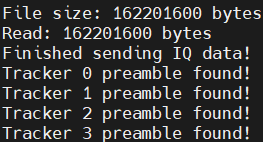
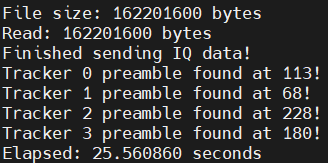
Updated software for elapsed time

diff --git a/software/main.c b/software/main.c
@@ -10,6 +10,7 @@
 #include "xscugic.h"
 #include "xgpiops.h"
 #include "xgpio.h"
+#include "xtime_l.h"
 
 #define NAV_VALID_IRQ_ID 			(121U)
 
@@ -54,6 +55,9 @@ void nav_valid_handler(void *CallbackRef) {
 }
 
 int initialize_nav(void) {
+	for(int i = 0; i < 4; i = i + 1) {
+	    nav_bit_count[i] = 0;
+	}
 	int rc;
 	XScuGic_Config *intc_cfg;
 	XGpio_Config *gpio_cfg;
@@ -199,9 +203,11 @@ int32_t search_preamble(volatile u8 *bits) {
 int main(void) {
     init_platform();
 
+    XTime t_start, t_end;
     int rc;
     const char *data_file = "gps_10s.bin";
     //const char *data_file = "spain_gps_10s.mem";
+    XTime_GetTime(&t_start);
     rc = initialize_nav();
     if(rc != XST_SUCCESS) {
     	xil_printf("Failed to initialize GPIO and interrupt, error: %d\r\n", rc);
@@ -231,13 +237,16 @@ int main(void) {
     }
     xil_printf("Finished sending IQ data!\r\n");
     for(int i = 0; i < 4; i = i + 1) {
-    	if(search_preamble(nav_bit[i]) != -1) {
-    		xil_printf("Tracker %u preamble found!\r\n", i);
+    	int32_t idx = search_preamble(nav_bit[i]);
+    	if(idx != -1) {
+    		xil_printf("Tracker %u preamble found at %d!\r\n", i, idx);
     	}
     	else {
     		xil_printf("Tracker %u preamble not found!\r\n", i);
     	}
     }
+    XTime_GetTime(&t_end);
+    printf("Elapsed: %f seconds\r\n", ((double)(t_end - t_start) / (double)COUNTS_PER_SECOND));
     f_close(&file_handle);
     f_unmount("0:/");
     cleanup_platform();
